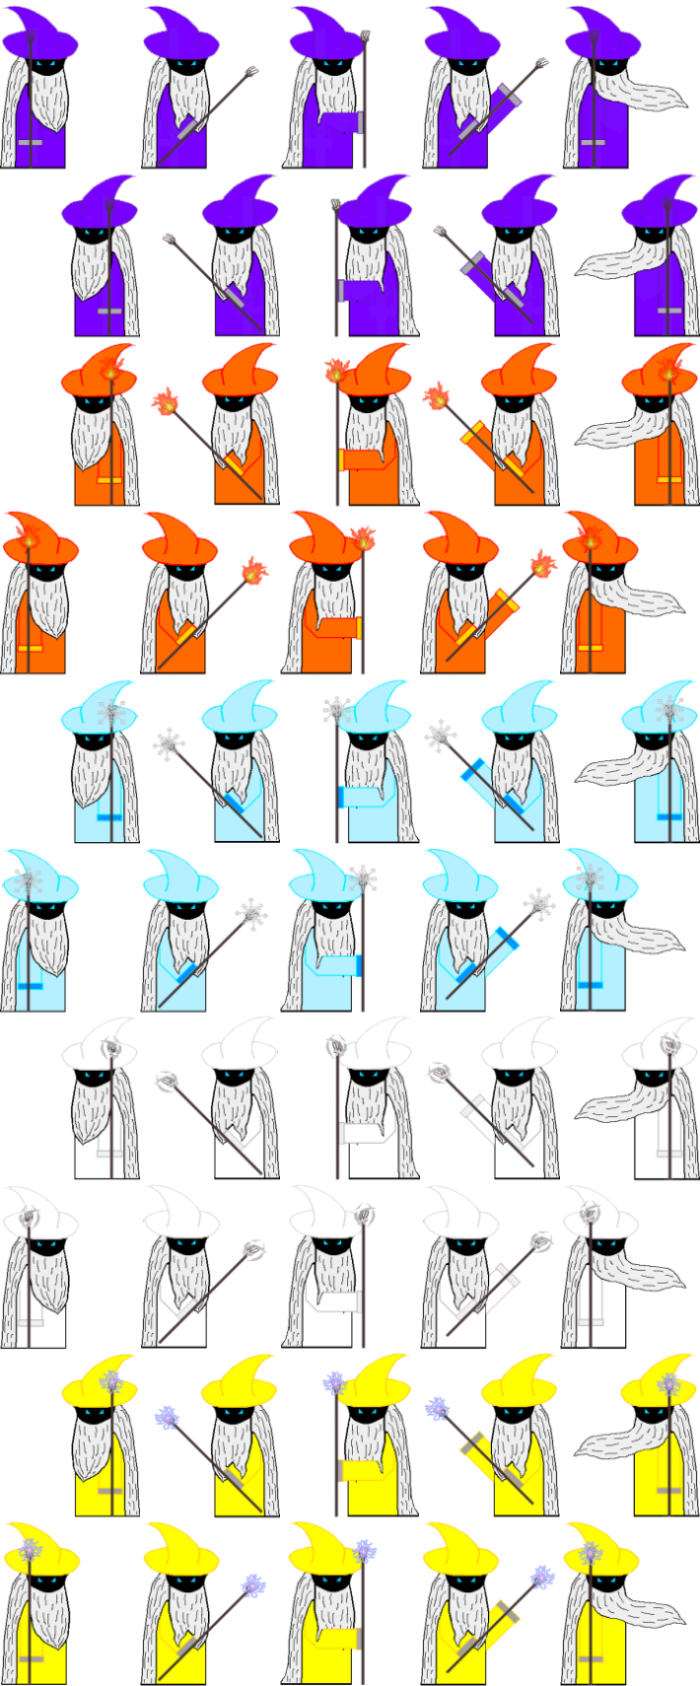
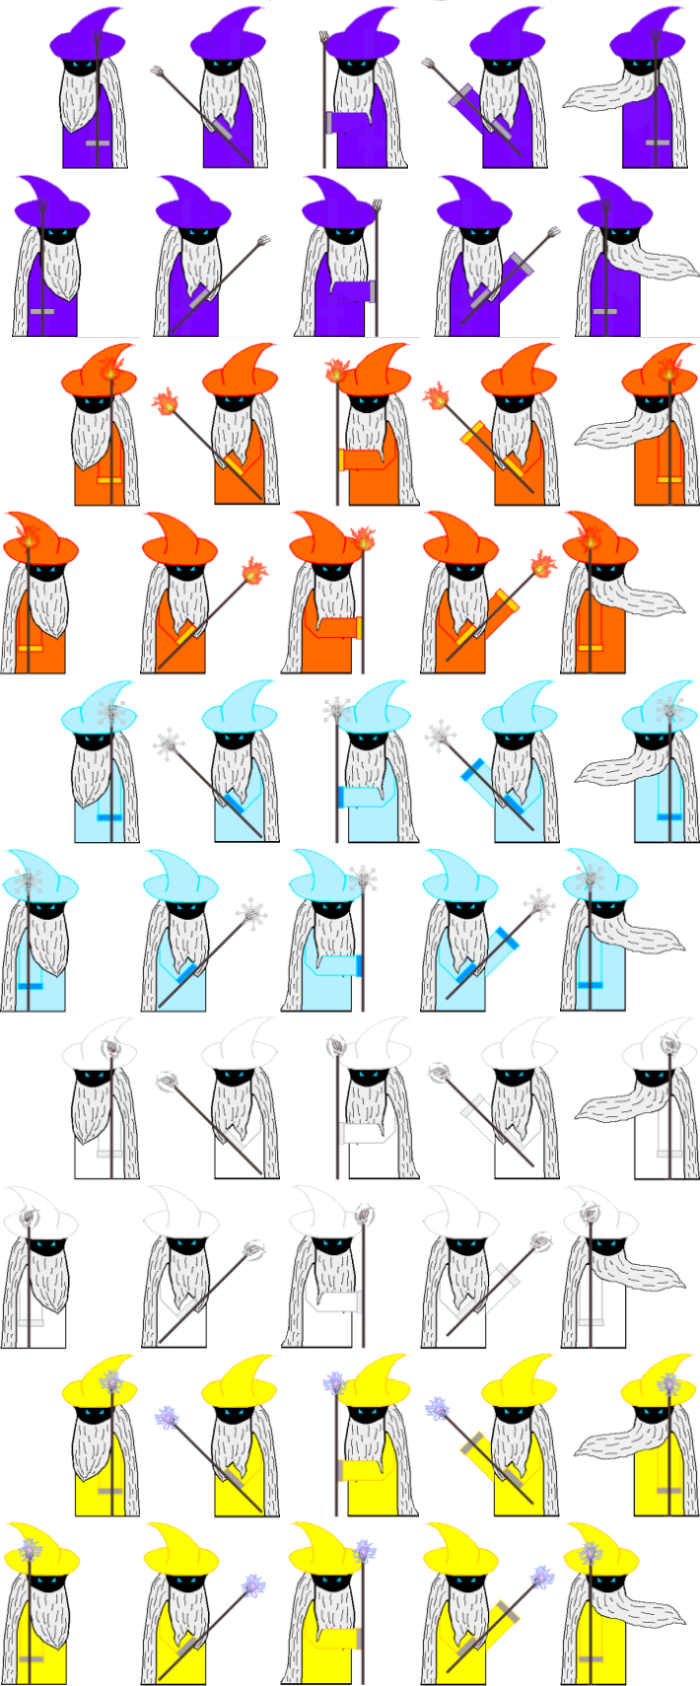
Final Fixes - V1.15
Wizard changes robes based on power now

Changed region(s): [[0.0, 0.0, 1.0, 0.2159]]

diff --git a/WizMan/WizMan/Menus.cs b/WizMan/WizMan/Menus.cs
@@ -35,6 +35,7 @@ namespace WizMan
         Texture2D companyScreen;
         Texture2D presentsScreen;
         Texture2D gameScreen;
+        Texture2D winScreen;
         Texture2D white;
         Texture2D credits;
         SpriteFont titleFont;
@@ -48,6 +49,7 @@ namespace WizMan
         
         //startup timing
         int msSinceStart = 0;
+        int msSinceWin = 0;
 
         //need a scaled rectangle for the instruciton screen to display on
         Rectangle instRect;
@@ -93,6 +95,9 @@ namespace WizMan
             presentsScreen = Game.Content.Load<Texture2D>("textures/presentsscreen");
             gameScreen = Game.Content.Load<Texture2D>("textures/introscreen");
             white = Game.Content.Load<Texture2D>("textures/white");
+
+            //win screen
+            winScreen = Game.Content.Load<Texture2D>("textures/victoryscreen");
 
             //credit scren
             credits = Game.Content.Load<Texture2D>("textures/creditscreen");
@@ -161,14 +166,17 @@ namespace WizMan
             switch(Game1.currentGameState)
             {
                 case Game1.GameState.StartUp:
+                    #region Start Up
                     msSinceStart += gameTime.ElapsedGameTime.Milliseconds;
                     if(!keyDown && enter)
                         msSinceStart = 6001;
                     if (msSinceStart > 6000)
                         Game1.currentGameState = Game1.GameState.MainMenu;
+                    #endregion
                     break;
                 case Game1.GameState.MainMenu:
                     #region Main Menu
+                    msSinceWin = 0;
                     MediaPlayer.Stop();
                     noMusic = true;
                     selMax = menuOps.Count-1;
@@ -274,6 +282,15 @@ namespace WizMan
                     noMusic = true;
                     if (!keyDown && escDown)
                         Game1.currentGameState = savedGameState;
+                    #endregion
+                    break;
+                case Game1.GameState.YouWin:
+                    #region You Win
+                    msSinceWin += gameTime.ElapsedGameTime.Milliseconds;
+                    if(!keyDown && enter)
+                        msSinceWin = 5001;
+                    if (msSinceWin > 5000)
+                        Game1.currentGameState = Game1.GameState.MainMenu;
                     #endregion
                     break;
                 case Game1.GameState.GameOver:
@@ -450,6 +467,18 @@ namespace WizMan
                     Game.GraphicsDevice.Clear(Color.Black);
                     menuSpriteBatch.Begin();
                     menuSpriteBatch.Draw(credits, instRect, Color.White);
+                    menuSpriteBatch.End();
+                    #endregion
+                    break;
+                case Game1.GameState.YouWin:
+                    #region You Win
+                    Game.GraphicsDevice.Clear(Color.Black);
+                    menuSpriteBatch.Begin();
+                    startRect.X = ((int)Game1.screenSize.X - winScreen.Width) / 2;
+                    startRect.Y = ((int)Game1.screenSize.Y - winScreen.Height) / 2;
+                    startRect.Width = winScreen.Width;
+                    startRect.Height = winScreen.Height;
+                    menuSpriteBatch.Draw(winScreen, startRect, Color.White);
                     menuSpriteBatch.End();
                     #endregion
                     break;

diff --git a/WizMan/WizMan/SpriteManager.cs b/WizMan/WizMan/SpriteManager.cs
@@ -33,6 +33,7 @@ namespace WizMan
         List<SimpleSprite> backgrounds = new List<SimpleSprite>();
         List<DamageSprite> damageList = new List<DamageSprite>();
         List<DestructableSprite> desList = new List<DestructableSprite>();
+        EndGame endSprite;
 
         //furthest away tiled background
         Texture2D topBackground;
@@ -68,7 +69,7 @@ namespace WizMan
             //Loads the player's sprite
             spriteBatch = new SpriteBatch(Game.GraphicsDevice);
             player = new UserControlledSprite(
-                Game.Content.Load<Texture2D>("finalsheet"), new Vector2 (0, 250), new Point (140, 169), 1, new Point (0, 0), new Point(5, 10),
+                Game.Content.Load<Texture2D>("finalsheet"), new Vector2 (0, 250), new Point (140, 169), 1, new Point (2, 3), new Point(5, 10),
                 new Vector2(6, 6), 120);
             player.addHealth(100);
 
@@ -116,6 +117,10 @@ namespace WizMan
                 previousPosition = player.getPosition();
                 //update the player based on the keyboard input
                 player.Update(gameTime, Game.Window.ClientBounds);
+
+                //check to see if the game or level is over
+                if(player.collisionRect.Intersects(endSprite.collisionRect))
+                    endSprite.handleCollision();
 
                 //checks to see if a projectile should be shot 
                 //if true adds new projectile to projectile list
@@ -241,6 +246,7 @@ namespace WizMan
                 {
                     d.Draw(gameTime, spriteBatch);
                 }
+                endSprite.Draw(gameTime,spriteBatch);
                 spriteBatch.End();
             }
             base.Draw(gameTime);
@@ -339,8 +345,8 @@ namespace WizMan
                 new Point(54, 108), 2, new Point(0, 0), new Point(1, 1), Vector2.Zero, false, Game1.Power.Fire));
             #endregion
             #region goalblock
-            worldList.Add(new WorldSprite(Game.Content.Load<Texture2D>("textures/powerpedestalsprite"), new Vector2(3400, -8),
-                new Point(108, 108), 2, new Point(0, 0), new Point(1, 1), Vector2.Zero));
+            endSprite = new EndGame(Game.Content.Load<Texture2D>("textures/powerpedestalsprite"), new Vector2(3400, -8),
+                new Point(108, 108), 2, new Point(0, 0), new Point(1, 1), Vector2.Zero);
             #endregion
         }
 

diff --git a/WizMan/WizMan/UserControlledSprite.cs b/WizMan/WizMan/UserControlledSprite.cs
@@ -29,6 +29,8 @@ namespace WizMan
         bool stoppedJumpAnimation = false;
         bool cnt = false;
 
+        int powerOffset;
+
         int timeSinceLastFrame = 0;
         GameTime localGameTime;
         int millisecondsPerFrame;
@@ -102,7 +104,24 @@ namespace WizMan
                 }
             }
 
+            Game1.Power tempPower = currentPower;
             selectPower();
+            if (currentPower == Game1.Power.Fire)
+                powerOffset = 2;
+            if (currentPower == Game1.Power.Ice)
+                powerOffset = 4;
+            if (currentPower == Game1.Power.Wind)
+                powerOffset = 6;
+            if (currentPower == Game1.Power.Shock)
+                powerOffset = 8;
+            //if we have changed powers, we need to update the picture of the wizman
+            if (tempPower != currentPower)
+            {
+                if (goLeft)
+                    leftAnimation(powerOffset);
+                else
+                    rightAnimation(powerOffset); 
+            }
 
             base.Update(gameTime, clientBounds);
         }
@@ -257,7 +276,7 @@ namespace WizMan
                     if (timeSinceLastFrame > localMsPerFrame)
                     {
                         timeSinceLastFrame = 0;
-                        leftAnimation();
+                        leftAnimation(powerOffset);
                     }
                     inputDirection.X -= 1;
                     if (goFast)
@@ -273,7 +292,7 @@ namespace WizMan
                     if (timeSinceLastFrame > localMsPerFrame)
                     {
                         timeSinceLastFrame = 0;
-                        rightAnimation();
+                        rightAnimation(powerOffset);
                     }
                     inputDirection.X += 1;
                     if (goFast)

diff --git a/WizMan/WizMan/EndGame.cs b/WizMan/WizMan/EndGame.cs
@@ -1,0 +1,34 @@
+using System;
+using System.Collections.Generic;
+using System.Linq;
+using System.Text;
+using Microsoft.Xna.Framework;
+using Microsoft.Xna.Framework.Graphics;
+using Microsoft.Xna.Framework.Input;
+using System.Diagnostics;
+
+namespace WizMan
+{
+    public class EndGame : Sprite
+    {
+        Texture2D _texture;
+        public EndGame(Texture2D textureImage, Vector2 position, Point frameSize, int collisionOffset,
+            Point currentFrame, Point sheetSize, Vector2 speed)
+            : base(textureImage, position, frameSize, collisionOffset,
+                currentFrame, sheetSize, speed)
+        {
+            this._texture = textureImage;
+        }
+
+
+        public void handleCollision()
+        {
+            Game1.currentGameState = Game1.GameState.YouWin;
+        }
+
+        public override Vector2 direction
+        {
+            get { throw new NotImplementedException(); }
+        }
+    }
+}

diff --git a/WizMan/WizMan/Sprite.cs b/WizMan/WizMan/Sprite.cs
@@ -100,8 +100,8 @@ namespace WizMan
             this.position = newPosition;
         }
 
-        public void rightAnimation() {
-            Game1.spriteManager.player.currentFrame.Y = 0;
+        public void rightAnimation(int powerOffset) {
+            Game1.spriteManager.player.currentFrame.Y = powerOffset+1;
             ++Game1.spriteManager.player.currentFrame.X;
             if (Game1.spriteManager.player.currentFrame.X > 3)
             {
@@ -109,8 +109,8 @@ namespace WizMan
             }
         }
 
-        public void leftAnimation() {
-            Game1.spriteManager.player.currentFrame.Y = 1;
+        public void leftAnimation(int powerOffset) {
+            Game1.spriteManager.player.currentFrame.Y = powerOffset+0;
             ++Game1.spriteManager.player.currentFrame.X;
             if (Game1.spriteManager.player.currentFrame.X > 3)
             {
